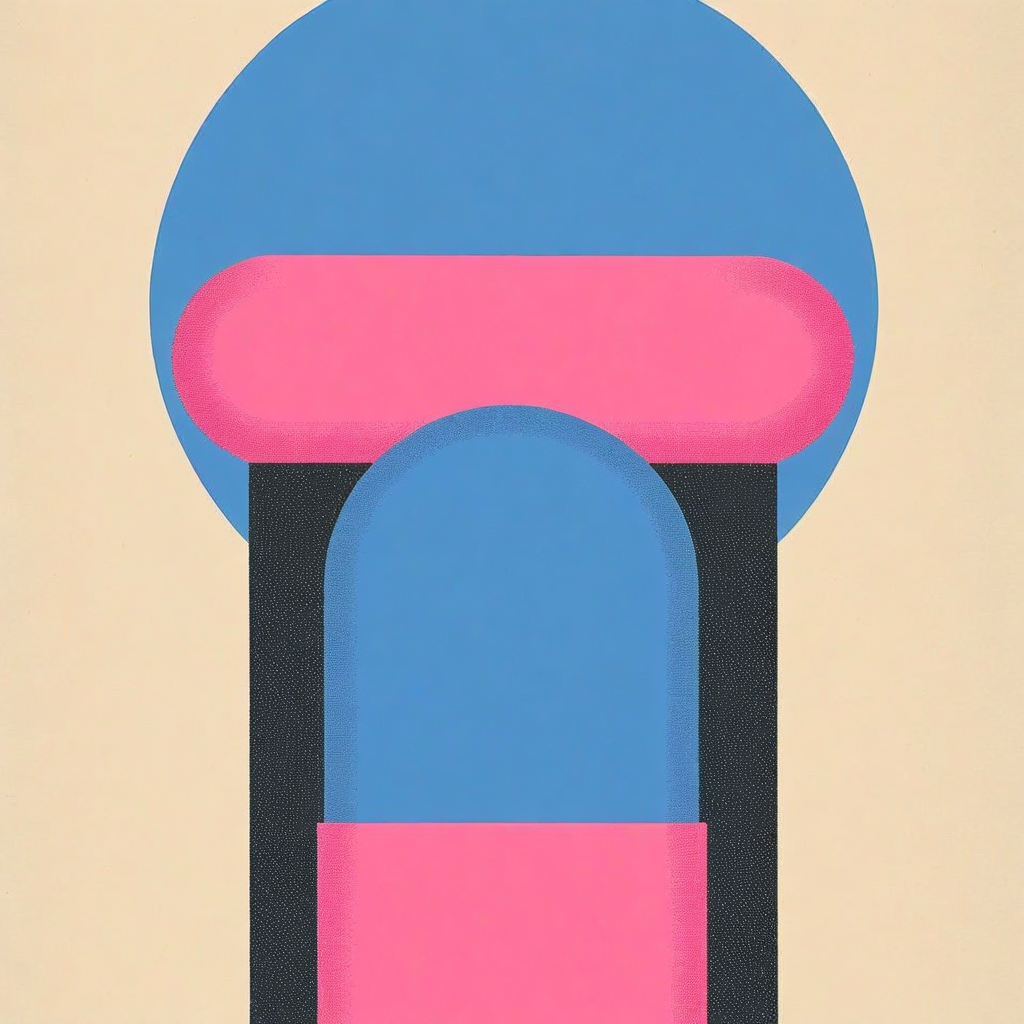
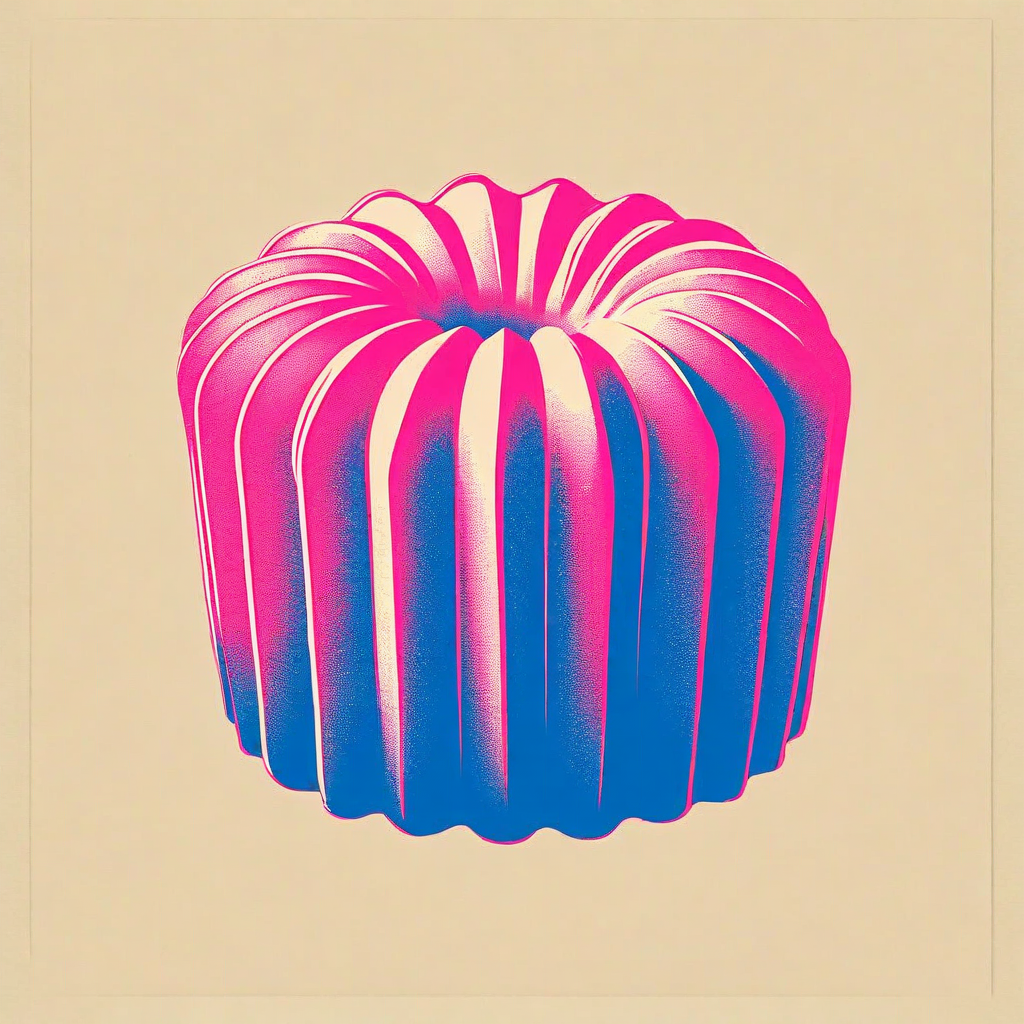
Half Cadence: fix canelé riso print, add per-unit cost breakdown
- Regenerate gen-riso/canele-riso.png as a clear fluted-canelé silhouette
  (the prior column+dome composition read badly); add canele-riso-bold alt
- cafe/canele-cost.md: ~$0.45/canelé ingredients from Fred Meyer + Amazon
  (rum is 37% of batch cost / WA spirits tax; eggs + vanilla next). Validates
  the plan's ~$0.44 ingredient assumption.
- Review hub picks up both

diff --git a/cafe/site/review/canele-cost.html b/cafe/site/review/canele-cost.html
@@ -1,0 +1,33 @@
+<!DOCTYPE html><html lang="en"><head><meta charset="utf-8"><meta name="viewport" content="width=device-width,initial-scale=1"><title>Canelé Cost per Unit</title><link href="https://fonts.googleapis.com/css2?family=Bricolage+Grotesque:wght@400;600;800&display=swap" rel="stylesheet"><style>
+:root{--blue:#0078bf;--pink:#ff48b0;--over:#cc2464;--paper:#fbfaf8;--ink:#435060;--gray:#88898a;--rule:#d2d4d6}
+*{box-sizing:border-box}
+body{font-family:'Bricolage Grotesque',system-ui,sans-serif;background:var(--paper);color:var(--ink);line-height:1.6;margin:0;font-size:16px}
+.inkbar{height:12px;background:linear-gradient(to right,var(--over) 0 20%,var(--pink) 20% 40%,var(--blue) 40% 60%,var(--over) 60% 80%,var(--pink) 80% 100%)}
+.wrap{max-width:820px;margin:0 auto;padding:28px 24px 80px}
+.back{font-family:ui-monospace,monospace;font-size:13px}
+h1{font-size:30px;font-weight:800;color:var(--blue);letter-spacing:-1px;margin:18px 0 4px}
+h2{font-size:13px;font-family:ui-monospace,monospace;letter-spacing:2px;text-transform:uppercase;color:var(--over);margin:30px 0 8px;border-bottom:1px solid var(--rule);padding-bottom:5px}
+h3{font-size:18px;font-weight:600;color:var(--blue);margin:18px 0 4px}
+h4{font-size:15px;font-weight:600;margin:14px 0 4px}
+a{color:var(--blue)} a:hover{color:var(--over)}
+code{font-family:ui-monospace,monospace;background:#eef0f2;padding:1px 5px;border-radius:3px;font-size:.9em}
+pre{background:#222a34;color:#c9ced5;padding:14px 16px;border-radius:6px;overflow:auto;font-size:13px}
+pre code{background:none;color:inherit;padding:0}
+table{border-collapse:collapse;width:100%;margin:12px 0;font-size:14.5px}
+th,td{border:1px solid var(--rule);padding:7px 10px;text-align:left;vertical-align:top}
+th{background:#eef0f2;font-weight:600}
+blockquote{border-left:3px solid var(--pink);margin:12px 0;padding:6px 16px;background:#fff;color:var(--ink)}
+hr{border:none;border-top:1px solid var(--rule);margin:26px 0}
+ul,ol{padding-left:22px}
+img{max-width:100%}
+.card{display:block;border:1px solid var(--rule);background:#fff;padding:16px 18px;margin:10px 0;text-decoration:none}
+.card:hover{border-color:var(--blue)}
+.card .t{font-weight:600;color:var(--blue);font-size:18px}
+.card .d{color:var(--ink);font-size:14px;margin-top:3px}
+.grid2{display:grid;grid-template-columns:1fr 1fr;gap:14px}
+.assets{display:grid;grid-template-columns:repeat(auto-fill,minmax(150px,1fr));gap:14px;margin-top:10px}
+.assets figure{margin:0;text-align:center}
+.assets img{border:1px solid var(--rule);background:#fbfaf8;width:100%}
+.assets figcaption{font-family:ui-monospace,monospace;font-size:11px;color:var(--gray);margin-top:4px}
+@media(max-width:620px){.grid2{grid-template-columns:1fr}}
+</style></head><body><div class="inkbar"></div><div class="wrap"><div class="back"><a href="index.html">&larr; review hub</a></div><h1>Canelé — Cost of Production per Unit</h1><p><strong>Batch:</strong> 24 canelés (~75g each, 1815g batter), the <a href="../r/big-batch-canele.html">Big-Batch Canelé</a>. <strong>Prices:</strong> Fred Meyer / Kroger Seattle (groceries) + Amazon (vanilla, fleur de sel), mid-2026, mid-range store-brand. Low-confidence prices flagged <code>~?</code>.</p><h2>1. Line items</h2><table><thead><tr><th>Ingredient</th><th>Qty used</th><th>Unit price</th><th>Line cost</th></tr></thead><tbody><tr><td>Whole milk</td><td>745 g</td><td>$0.00104/g</td><td>$0.78</td></tr><tr><td>Heavy cream</td><td>85 g</td><td>$0.0069/g</td><td>$0.59</td></tr><tr><td>Unsalted butter</td><td>100 g</td><td>$0.0101/g</td><td>$1.01</td></tr><tr><td>Vanilla beans (2 pods)</td><td>2 pods</td><td>$0.60/pod <code>~?</code></td><td>$1.20</td></tr><tr><td>Granulated sugar</td><td>375 g</td><td>$0.00165/g</td><td>$0.62</td></tr><tr><td>Fleur de sel</td><td>4 g</td><td>$0.11/g <code>~?</code></td><td>$0.44</td></tr><tr><td>Eggs (2 whole + 5 yolks = 7 eggs)</td><td>7 eggs</td><td>$0.25/egg <code>~?</code></td><td>$1.75</td></tr><tr><td>Aged rum</td><td>88 g (~93.6 ml)</td><td>$0.043/ml WA out-the-door <code>~?</code></td><td>$4.03</td></tr><tr><td>AP flour</td><td>185 g</td><td>$0.00132/g <code>~?</code></td><td>$0.24</td></tr><tr><td>Cornstarch</td><td>33 g</td><td>$0.0044/g <code>~?</code></td><td>$0.15</td></tr><tr><td><strong>Batch total</strong></td><td></td><td></td><td><strong>$10.80</strong></td></tr></tbody></table><p><strong>Notes on the math</strong></p><ul><li><strong>Rum:</strong> the price source is per-<em>milliliter</em>; the recipe specs 88 <em>grams</em>. At rum density ~0.94 g/ml that's ~93.6 ml → $4.03 at the WA out-the-door rate ($0.043/ml, which already includes WA's 20.5% spirits sales tax + $3.77/L liter tax). If you cost rum at its pre-tax base (~$0.030/ml), the line drops to <strong>$2.81</strong> and the batch to <strong>$9.58</strong>. WA's spirits tax alone moves the per-canelé number by ~$0.05.</li><li><strong>Eggs:</strong> all 7 eggs drawn from the carton are charged at full price ($1.75). The recipe leaves <strong>2 whites</strong> unused — if you reuse them (financiers, macarons), a mass-based credit is ~$0.32, netting eggs to ~$1.43 and the batch to ~$10.47. Not discounted above.</li><li>Fleur de sel at $0.11/g is the specialty tin; swapping plain sea salt ($0.0075/g) drops that line from $0.44 to ~$0.03 — see sensitivity.</li></ul><h2>2. Per-canelé (ingredients)</h2><ul><li><strong>Batch total: $10.80</strong> (rum at WA out-the-door)</li><li><strong>÷ 24 = ~$0.45 / canelé</strong></li><li>(Rum at pre-tax base → batch $9.58 → <strong>~$0.40 / canelé</strong>.)</li></ul><h2>3. Fully-loaded per-canelé</h2><p>Add nonstick baking spray at ~$0.02–0.05 per mold (≈1 g/use; cans are ~5 oz, not 170 g — negligible at batch scale):</p><ul><li><strong>~$0.47–0.48 / canelé</strong> (ingredients + spray, rum at WA rate)</li></ul><p><strong>NOT included</strong> (see <a href="plan.html"><code>plan.md</code></a> §6 for these): labor (loaded ~$25.56–27/hr at the $21.30 wage floor), oven gas/electric (high-heat 525°F runs are gas-heavy), copper mold wear + seasoning, packaging (kraft-window boxes, liners, riso cards), and ~10% waste. The plan rolls these into its $0.62 fully-loaded figure.</p><h2>4. Sensitivity — what dominates</h2><p>Two volatile lines drive ~half the batch cost:</p><ol><li><strong>Rum — $4.03 (37% of batch).</strong> The single biggest line, and the most tax-sensitive (WA spirits tax adds ~$1.20 to the line / ~$0.05 per canelé vs. base). Dropping to a floor-priced bottle (~$22 base) trims ~$0.40 off the batch (~$0.02/canelé). Small per-unit lever, largest absolute one.</li><li><strong>Eggs — $1.75 (16%).</strong> Volatile retail prices (floor ~$2.09 to promo spikes ~$4.00/dozen swing this ±$0.50/batch). Reusing the 2 whites recovers ~$0.32.</li><li><strong>Vanilla beans — $1.20 (11%).</strong> At $0.60/pod (medium confidence). <strong>Switching to 16g vanilla extract</strong> removes the bean line entirely; extract for this batch runs only ~$1–2 even at retail, so it's roughly a wash to a small saving — but flavor, not cost, should decide.</li></ol><p>A cheaper-salt swap (fleur de sel → plain sea salt) saves ~$0.41/batch (~$0.017/canelé) on its own.</p><p>Floor scenario (base-tax rum + reused whites + plain salt): batch ≈ <strong>$8.4</strong>, ~<strong>$0.35/canelé</strong>.</p><h2>5. Bottom line</h2><p><strong>~$0.45/canelé in ingredients from a Seattle grocery (~$0.47–0.48 fully-loaded for spray; ~$0.40 if rum is costed pre-tax).</strong> This lands right on the plan's assumed <strong>~$0.44 ingredient</strong> estimate — the recompute validates it — but sits well under the plan's <strong>~$0.62 fully-loaded</strong> figure, which is intentionally higher because it carries packaging + 10% waste that this ingredient-only sheet does not.</p><hr><p><em>Confidence: milk, cream, butter, sugar are high (corroborated figures); vanilla, salt, eggs, rum, flour, cornstarch, spray are medium (estimated from ranges — Kroger/Fred Meyer block scraping). All flagged <code>~?</code> in the table. The conclusion (~$0.45/canelé) is robust to these because the high-confidence dairy/sugar lines and the dominant rum line anchor most of the cost.</em></p></div></body></html>

diff --git a/cafe/site/review/index.html b/cafe/site/review/index.html
@@ -45,9 +45,10 @@ img{max-width:100%}
   <a class="card" href="plan.html"><div class="t">Business + UX Plan</div><div class="d">numbers, location, beverage program, brand, floor plan</div></a>
   <a class="card" href="farmers-market-playbook.html"><div class="t">Farmers-Market Playbook</div><div class="d">the validation phase + the WA TCS/cottage reality</div></a>
   <a class="card" href="water-activity-test-plan.html"><div class="t">Water-Activity Test Plan</div><div class="d">chasing the home-kitchen channel — email WSDA first</div></a>
+  <a class="card" href="canele-cost.html"><div class="t">Canelé Cost per Unit</div><div class="d">~$0.45/canelé from a Seattle grocery, line by line</div></a>
   <a class="card" href="brand__README.html"><div class="t">Brand Kit</div><div class="d">tokens, voice, the daily ritual</div></a>
 </div>
 
 <h2>Brand assets</h2>
-<div class="assets"><figure><img src="../../brand/png/box-label.png" alt="box-label.png"><figcaption>box-label</figcaption></figure><figure><img src="../../brand/png/cup-band.png" alt="cup-band.png"><figcaption>cup-band</figcaption></figure><figure><img src="../../brand/png/eat-today-card.png" alt="eat-today-card.png"><figcaption>eat-today-card</figcaption></figure><figure><img src="../../brand/png/flavor-chocolate.png" alt="flavor-chocolate.png"><figcaption>flavor-chocolate</figcaption></figure><figure><img src="../../brand/png/flavor-milk-tea.png" alt="flavor-milk-tea.png"><figcaption>flavor-milk-tea</figcaption></figure><figure><img src="../../brand/png/flavor-pour-over.png" alt="flavor-pour-over.png"><figcaption>flavor-pour-over</figcaption></figure><figure><img src="../../brand/png/flavor-vanilla.png" alt="flavor-vanilla.png"><figcaption>flavor-vanilla</figcaption></figure><figure><img src="../../brand/png/logo.png" alt="logo.png"><figcaption>logo</figcaption></figure><figure><img src="../../brand/png/loyalty-card.png" alt="loyalty-card.png"><figcaption>loyalty-card</figcaption></figure><figure><img src="../../brand/png/stamp.png" alt="stamp.png"><figcaption>stamp</figcaption></figure><figure><img src="../../brand/png/today-board.png" alt="today-board.png"><figcaption>today-board</figcaption></figure><figure><img src="../../brand/gen-riso/cadence-bars-riso.png" alt="cadence-bars-riso.png"><figcaption>gen-riso/cadence-bars-riso</figcaption></figure><figure><img src="../../brand/gen-riso/canele-riso.png" alt="canele-riso.png"><figcaption>gen-riso/canele-riso</figcaption></figure></div>
+<div class="assets"><figure><img src="../../brand/png/box-label.png" alt="box-label.png"><figcaption>box-label</figcaption></figure><figure><img src="../../brand/png/cup-band.png" alt="cup-band.png"><figcaption>cup-band</figcaption></figure><figure><img src="../../brand/png/eat-today-card.png" alt="eat-today-card.png"><figcaption>eat-today-card</figcaption></figure><figure><img src="../../brand/png/flavor-chocolate.png" alt="flavor-chocolate.png"><figcaption>flavor-chocolate</figcaption></figure><figure><img src="../../brand/png/flavor-milk-tea.png" alt="flavor-milk-tea.png"><figcaption>flavor-milk-tea</figcaption></figure><figure><img src="../../brand/png/flavor-pour-over.png" alt="flavor-pour-over.png"><figcaption>flavor-pour-over</figcaption></figure><figure><img src="../../brand/png/flavor-vanilla.png" alt="flavor-vanilla.png"><figcaption>flavor-vanilla</figcaption></figure><figure><img src="../../brand/png/logo.png" alt="logo.png"><figcaption>logo</figcaption></figure><figure><img src="../../brand/png/loyalty-card.png" alt="loyalty-card.png"><figcaption>loyalty-card</figcaption></figure><figure><img src="../../brand/png/stamp.png" alt="stamp.png"><figcaption>stamp</figcaption></figure><figure><img src="../../brand/png/today-board.png" alt="today-board.png"><figcaption>today-board</figcaption></figure><figure><img src="../../brand/gen-riso/cadence-bars-riso.png" alt="cadence-bars-riso.png"><figcaption>gen-riso/cadence-bars-riso</figcaption></figure><figure><img src="../../brand/gen-riso/canele-riso-bold.png" alt="canele-riso-bold.png"><figcaption>gen-riso/canele-riso-bold</figcaption></figure><figure><img src="../../brand/gen-riso/canele-riso.png" alt="canele-riso.png"><figcaption>gen-riso/canele-riso</figcaption></figure></div>
 </div></body></html>

diff --git a/cafe/site/build-review.js b/cafe/site/build-review.js
@@ -94,6 +94,7 @@ const docs = [
   { src: "plan.md", title: "Business + UX Plan" },
   { src: "farmers-market-playbook.md", title: "Farmers-Market Playbook" },
   { src: "water-activity-test-plan.md", title: "Water-Activity Test Plan" },
+  { src: "canele-cost.md", title: "Canelé Cost per Unit" },
   { src: path.join("brand","README.md"), title: "Brand Kit" },
 ];
 for(const d of docs){
@@ -129,6 +130,7 @@ const hub = head("Half Cadence — review hub") +
   <a class="card" href="plan.html"><div class="t">Business + UX Plan</div><div class="d">numbers, location, beverage program, brand, floor plan</div></a>
   <a class="card" href="farmers-market-playbook.html"><div class="t">Farmers-Market Playbook</div><div class="d">the validation phase + the WA TCS/cottage reality</div></a>
   <a class="card" href="water-activity-test-plan.html"><div class="t">Water-Activity Test Plan</div><div class="d">chasing the home-kitchen channel — email WSDA first</div></a>
+  <a class="card" href="canele-cost.html"><div class="t">Canelé Cost per Unit</div><div class="d">~$0.45/canelé from a Seattle grocery, line by line</div></a>
   <a class="card" href="brand__README.html"><div class="t">Brand Kit</div><div class="d">tokens, voice, the daily ritual</div></a>
 </div>
 

diff --git a/cafe/site/review/brand__README.html b/cafe/site/review/brand__README.html
@@ -30,5 +30,5 @@ img{max-width:100%}
 .assets img{border:1px solid var(--rule);background:#fbfaf8;width:100%}
 .assets figcaption{font-family:ui-monospace,monospace;font-size:11px;color:var(--gray);margin-top:4px}
 @media(max-width:620px){.grid2{grid-template-columns:1fr}}
-</style></head><body><div class="inkbar"></div><div class="wrap"><div class="back"><a href="index.html">&larr; review hub</a></div><h1>Half Cadence — brand kit</h1><p>Working brand assets for the café concept. Everything extends the recipe site's existing two-ink Risograph system — no new colors, no new fonts. See <a href="../plan.html"><code>../plan.md</code></a> for the full business + UX plan and <a href="../site/"><code>../site/</code></a> for the website.</p><p><strong>The name.</strong> A <em>half cadence</em> in music is a phrase that stops on the dominant chord — unresolved, hanging, pulling you toward the next. That's the daily-drop / sell-out model stated as a name: <em>we never resolve; come back tomorrow.</em> It also ties the café to the owner's existing <code>halfcadence</code> recipe site and handle, so it's one brand for free.</p><h2>Tokens (do not deviate)</h2><table><thead><tr><th>Token</th><th>Hex</th><th>Use</th></tr></thead><tbody><tr><td>Blue</td><td><code>#0078bf</code></td><td>Primary ink. Wordmark words, body, all small type.</td></tr><tr><td>Fluorescent Pink</td><td><code>#ff48b0</code></td><td>Accent ink. The <code>/</code> caesura, fills, the sold-out strike.</td></tr><tr><td>Overprint</td><td><code>#cc2464</code></td><td>Blue × pink multiply. Earned by overlap — never a flat fill except for section labels / the honesty line.</td></tr><tr><td>Cream</td><td><code>#fbfaf8</code></td><td>The only ground.</td></tr><tr><td>Midnight</td><td><code>#435060</code></td><td>De-emphasized type (dates, sublines).</td></tr><tr><td>Light gray</td><td><code>#88898a</code></td><td>Empty dots, sold-out name.</td></tr></tbody></table><p><strong>Type:</strong> Bricolage Grotesque (600) for the wordmark and headlines; monospace for everything else — prices, times, flavor names, wayfinding. (Matches the recipe site exactly.)</p><p><strong>Voice:</strong> imperative, numeric, honest, no adjectives, no exclamation points. <code>Rest 48 hours. Bake at 525. Eat today.</code></p><p><strong>The wordmark mechanic:</strong> "half / cadence" — words in blue, the <strong><code>/</code> caesura in pink</strong>. The slash performs the two-ink rule <em>and</em> the unresolved-phrase idea in one mark. The canelé glyph (pink rectangle body + blue circle dome) sits as a colophon beside it.</p><h2>Assets</h2><table><thead><tr><th>File</th><th>What it is</th></tr></thead><tbody><tr><td><code>logo.svg</code></td><td>Primary horizontal wordmark — canelé-glyph colophon + "half / cadence" + monospace subline.</td></tr><tr><td><code>stamp.svg</code></td><td>Circular mark for the IG avatar, stickers, and the rubber stamp — glyph + stacked wordmark + <code>EAT TODAY</code>.</td></tr><tr><td><code>today-board.svg</code></td><td><strong>The hero artifact.</strong> The daily flavor board: fixed all-star band + rotating roster with a remaining-count dot grid and a pink sold-out strike. Simultaneously the in-store board, the menu, and the day's Instagram post. Re-typeset every morning.</td></tr><tr><td><code>cup-band.svg</code></td><td>Wrap/sleeve band for cups — repeating canelé glyph + <code>POUR OVER · ~4 MIN · WORTH IT</code>.</td></tr><tr><td><code>flavor-vanilla.svg</code></td><td>All-star glyph — the master mark: pink rectangle body + blue circle dome.</td></tr><tr><td><code>flavor-chocolate.svg</code></td><td>All-star glyph — the inverse: blue body + pink dome.</td></tr><tr><td><code>flavor-milk-tea.svg</code></td><td>All-star glyph — pink body + blue base band (the milk layer).</td></tr><tr><td><code>flavor-pour-over.svg</code></td><td>All-star glyph — blue dripper triangle + pink drip.</td></tr><tr><td><code>box-label.svg</code></td><td>Gift-box label — wordmark + "box of __ / flavors" fill-in + the "eat today" honesty line.</td></tr><tr><td><code>eat-today-card.svg</code></td><td>The card that tucks into every box: <em>eat today, don't refrigerate, the shell goes soft.</em></td></tr><tr><td><code>loyalty-card.svg</code></td><td>Punch card — ten blue canelé-glyph outlines; each visit gets a pink dome stamp; the tenth is free. The stamp performs the two-ink rule every visit.</td></tr><tr><td><code>gen-riso/canele-riso.png</code></td><td>Nova Canvas riso print of the canelé form (flat pink column + blue dome, halftone grain).</td></tr><tr><td><code>gen-riso/cadence-bars-riso.png</code></td><td>Nova Canvas abstract riso print — blue bars + pink caesura slash (the "cadence" motif). A poster/wall option.</td></tr></tbody></table><p>The flavor glyphs are lifted directly from the recipe site's existing illustrations (<code>canele.svg</code>, <code>chocolate-canele.svg</code>, <code>hong-kong-milk-tea-canele.svg</code>, <code>iced-pour-over.svg</code>), so the café and the recipes read as one hand. New rotating flavors follow the site's illustration rules: max 2 primary shapes, blue/pink only, <code>viewBox="0 0 200 200"</code>, multiply on the overlapping shape.</p><h2>Rendering</h2><p>These are riso-spec SVGs. To preview as PNG:</p><pre><code>convert -density 150 -background "#fbfaf8" today-board.svg today-board.png
+</style></head><body><div class="inkbar"></div><div class="wrap"><div class="back"><a href="index.html">&larr; review hub</a></div><h1>Half Cadence — brand kit</h1><p>Working brand assets for the café concept. Everything extends the recipe site's existing two-ink Risograph system — no new colors, no new fonts. See <a href="../plan.html"><code>../plan.md</code></a> for the full business + UX plan and <a href="../site/"><code>../site/</code></a> for the website.</p><p><strong>The name.</strong> A <em>half cadence</em> in music is a phrase that stops on the dominant chord — unresolved, hanging, pulling you toward the next. That's the daily-drop / sell-out model stated as a name: <em>we never resolve; come back tomorrow.</em> It also ties the café to the owner's existing <code>halfcadence</code> recipe site and handle, so it's one brand for free.</p><h2>Tokens (do not deviate)</h2><table><thead><tr><th>Token</th><th>Hex</th><th>Use</th></tr></thead><tbody><tr><td>Blue</td><td><code>#0078bf</code></td><td>Primary ink. Wordmark words, body, all small type.</td></tr><tr><td>Fluorescent Pink</td><td><code>#ff48b0</code></td><td>Accent ink. The <code>/</code> caesura, fills, the sold-out strike.</td></tr><tr><td>Overprint</td><td><code>#cc2464</code></td><td>Blue × pink multiply. Earned by overlap — never a flat fill except for section labels / the honesty line.</td></tr><tr><td>Cream</td><td><code>#fbfaf8</code></td><td>The only ground.</td></tr><tr><td>Midnight</td><td><code>#435060</code></td><td>De-emphasized type (dates, sublines).</td></tr><tr><td>Light gray</td><td><code>#88898a</code></td><td>Empty dots, sold-out name.</td></tr></tbody></table><p><strong>Type:</strong> Bricolage Grotesque (600) for the wordmark and headlines; monospace for everything else — prices, times, flavor names, wayfinding. (Matches the recipe site exactly.)</p><p><strong>Voice:</strong> imperative, numeric, honest, no adjectives, no exclamation points. <code>Rest 48 hours. Bake at 525. Eat today.</code></p><p><strong>The wordmark mechanic:</strong> "half / cadence" — words in blue, the <strong><code>/</code> caesura in pink</strong>. The slash performs the two-ink rule <em>and</em> the unresolved-phrase idea in one mark. The canelé glyph (pink rectangle body + blue circle dome) sits as a colophon beside it.</p><h2>Assets</h2><table><thead><tr><th>File</th><th>What it is</th></tr></thead><tbody><tr><td><code>logo.svg</code></td><td>Primary horizontal wordmark — canelé-glyph colophon + "half / cadence" + monospace subline.</td></tr><tr><td><code>stamp.svg</code></td><td>Circular mark for the IG avatar, stickers, and the rubber stamp — glyph + stacked wordmark + <code>EAT TODAY</code>.</td></tr><tr><td><code>today-board.svg</code></td><td><strong>The hero artifact.</strong> The daily flavor board: fixed all-star band + rotating roster with a remaining-count dot grid and a pink sold-out strike. Simultaneously the in-store board, the menu, and the day's Instagram post. Re-typeset every morning.</td></tr><tr><td><code>cup-band.svg</code></td><td>Wrap/sleeve band for cups — repeating canelé glyph + <code>POUR OVER · ~4 MIN · WORTH IT</code>.</td></tr><tr><td><code>flavor-vanilla.svg</code></td><td>All-star glyph — the master mark: pink rectangle body + blue circle dome.</td></tr><tr><td><code>flavor-chocolate.svg</code></td><td>All-star glyph — the inverse: blue body + pink dome.</td></tr><tr><td><code>flavor-milk-tea.svg</code></td><td>All-star glyph — pink body + blue base band (the milk layer).</td></tr><tr><td><code>flavor-pour-over.svg</code></td><td>All-star glyph — blue dripper triangle + pink drip.</td></tr><tr><td><code>box-label.svg</code></td><td>Gift-box label — wordmark + "box of __ / flavors" fill-in + the "eat today" honesty line.</td></tr><tr><td><code>eat-today-card.svg</code></td><td>The card that tucks into every box: <em>eat today, don't refrigerate, the shell goes soft.</em></td></tr><tr><td><code>loyalty-card.svg</code></td><td>Punch card — ten blue canelé-glyph outlines; each visit gets a pink dome stamp; the tenth is free. The stamp performs the two-ink rule every visit.</td></tr><tr><td><code>gen-riso/canele-riso.png</code></td><td>Nova Canvas riso print — the fluted canelé silhouette on cream, pink/blue two-ink with halftone grain. The warm, classic version.</td></tr><tr><td><code>gen-riso/canele-riso-bold.png</code></td><td>Same fluted canelé, pink-ground bold poster variant (blue overprint).</td></tr><tr><td><code>gen-riso/cadence-bars-riso.png</code></td><td>Nova Canvas abstract riso print — blue bars + pink caesura slash (the "cadence" motif). A poster/wall option.</td></tr></tbody></table><p>The flavor glyphs are lifted directly from the recipe site's existing illustrations (<code>canele.svg</code>, <code>chocolate-canele.svg</code>, <code>hong-kong-milk-tea-canele.svg</code>, <code>iced-pour-over.svg</code>), so the café and the recipes read as one hand. New rotating flavors follow the site's illustration rules: max 2 primary shapes, blue/pink only, <code>viewBox="0 0 200 200"</code>, multiply on the overlapping shape.</p><h2>Rendering</h2><p>These are riso-spec SVGs. To preview as PNG:</p><pre><code>convert -density 150 -background "#fbfaf8" today-board.svg today-board.png
 </code></pre><p>For real signage/packaging, lock <code>#0078bf</code> and <code>#ff48b0</code> to Pantone/spot equivalents and proof on actual cream stock — Fluorescent Pink drifts to muddy magenta in 4-color digital and backlit signage. Never set prices in pink alone (fails contrast on cream); use blue or overprint-dark.</p><h2>The daily ritual</h2><ol><li>Set today's counts → re-typeset <code>today-board.svg</code> (swap names, reset dot grids), or edit the <code>TODAY</code> object in <a href="../site/today.html"><code>../site/today.html</code></a> — same data, two surfaces.</li><li>Print the board on cream at A2. Hang it.</li><li>Photograph it → that's the day's social post. Caption in the recipe voice.</li><li>As flavors sell out, knock down dots; at zero, strike the name in pink.</li><li>The printed board, the website <code>/today</code> page, and the counts must never disagree.</li></ol></div></body></html>

diff --git a/cafe/canele-cost.md b/cafe/canele-cost.md
@@ -1,0 +1,58 @@
+# Canelé — Cost of Production per Unit
+
+**Batch:** 24 canelés (~75g each, 1815g batter), the [Big-Batch Canelé](../r/big-batch-canele.md). **Prices:** Fred Meyer / Kroger Seattle (groceries) + Amazon (vanilla, fleur de sel), mid-2026, mid-range store-brand. Low-confidence prices flagged `~?`.
+
+## 1. Line items
+
+| Ingredient | Qty used | Unit price | Line cost |
+|---|---|---|---|
+| Whole milk | 745 g | $0.00104/g | $0.78 |
+| Heavy cream | 85 g | $0.0069/g | $0.59 |
+| Unsalted butter | 100 g | $0.0101/g | $1.01 |
+| Vanilla beans (2 pods) | 2 pods | $0.60/pod `~?` | $1.20 |
+| Granulated sugar | 375 g | $0.00165/g | $0.62 |
+| Fleur de sel | 4 g | $0.11/g `~?` | $0.44 |
+| Eggs (2 whole + 5 yolks = 7 eggs) | 7 eggs | $0.25/egg `~?` | $1.75 |
+| Aged rum | 88 g (~93.6 ml) | $0.043/ml WA out-the-door `~?` | $4.03 |
+| AP flour | 185 g | $0.00132/g `~?` | $0.24 |
+| Cornstarch | 33 g | $0.0044/g `~?` | $0.15 |
+| **Batch total** | | | **$10.80** |
+
+**Notes on the math**
+- **Rum:** the price source is per-*milliliter*; the recipe specs 88 *grams*. At rum density ~0.94 g/ml that's ~93.6 ml → $4.03 at the WA out-the-door rate ($0.043/ml, which already includes WA's 20.5% spirits sales tax + $3.77/L liter tax). If you cost rum at its pre-tax base (~$0.030/ml), the line drops to **$2.81** and the batch to **$9.58**. WA's spirits tax alone moves the per-canelé number by ~$0.05.
+- **Eggs:** all 7 eggs drawn from the carton are charged at full price ($1.75). The recipe leaves **2 whites** unused — if you reuse them (financiers, macarons), a mass-based credit is ~$0.32, netting eggs to ~$1.43 and the batch to ~$10.47. Not discounted above.
+- Fleur de sel at $0.11/g is the specialty tin; swapping plain sea salt ($0.0075/g) drops that line from $0.44 to ~$0.03 — see sensitivity.
+
+## 2. Per-canelé (ingredients)
+
+- **Batch total: $10.80** (rum at WA out-the-door)
+- **÷ 24 = ~$0.45 / canelé**
+- (Rum at pre-tax base → batch $9.58 → **~$0.40 / canelé**.)
+
+## 3. Fully-loaded per-canelé
+
+Add nonstick baking spray at ~$0.02–0.05 per mold (≈1 g/use; cans are ~5 oz, not 170 g — negligible at batch scale):
+
+- **~$0.47–0.48 / canelé** (ingredients + spray, rum at WA rate)
+
+**NOT included** (see [`plan.md`](./plan.md) §6 for these): labor (loaded ~$25.56–27/hr at the $21.30 wage floor), oven gas/electric (high-heat 525°F runs are gas-heavy), copper mold wear + seasoning, packaging (kraft-window boxes, liners, riso cards), and ~10% waste. The plan rolls these into its $0.62 fully-loaded figure.
+
+## 4. Sensitivity — what dominates
+
+Two volatile lines drive ~half the batch cost:
+
+1. **Rum — $4.03 (37% of batch).** The single biggest line, and the most tax-sensitive (WA spirits tax adds ~$1.20 to the line / ~$0.05 per canelé vs. base). Dropping to a floor-priced bottle (~$22 base) trims ~$0.40 off the batch (~$0.02/canelé). Small per-unit lever, largest absolute one.
+2. **Eggs — $1.75 (16%).** Volatile retail prices (floor ~$2.09 to promo spikes ~$4.00/dozen swing this ±$0.50/batch). Reusing the 2 whites recovers ~$0.32.
+3. **Vanilla beans — $1.20 (11%).** At $0.60/pod (medium confidence). **Switching to 16g vanilla extract** removes the bean line entirely; extract for this batch runs only ~$1–2 even at retail, so it's roughly a wash to a small saving — but flavor, not cost, should decide.
+
+A cheaper-salt swap (fleur de sel → plain sea salt) saves ~$0.41/batch (~$0.017/canelé) on its own.
+
+Floor scenario (base-tax rum + reused whites + plain salt): batch ≈ **$8.4**, ~**$0.35/canelé**.
+
+## 5. Bottom line
+
+**~$0.45/canelé in ingredients from a Seattle grocery (~$0.47–0.48 fully-loaded for spray; ~$0.40 if rum is costed pre-tax).** This lands right on the plan's assumed **~$0.44 ingredient** estimate — the recompute validates it — but sits well under the plan's **~$0.62 fully-loaded** figure, which is intentionally higher because it carries packaging + 10% waste that this ingredient-only sheet does not.
+
+---
+
+*Confidence: milk, cream, butter, sugar are high (corroborated figures); vanilla, salt, eggs, rum, flour, cornstarch, spray are medium (estimated from ranges — Kroger/Fred Meyer block scraping). All flagged `~?` in the table. The conclusion (~$0.45/canelé) is robust to these because the high-confidence dairy/sugar lines and the dominant rum line anchor most of the cost.*

diff --git a/cafe/brand/README.md b/cafe/brand/README.md
@@ -36,7 +36,8 @@ Working brand assets for the café concept. Everything extends the recipe site's
 | `box-label.svg` | Gift-box label — wordmark + "box of __ / flavors" fill-in + the "eat today" honesty line. |
 | `eat-today-card.svg` | The card that tucks into every box: *eat today, don't refrigerate, the shell goes soft.* |
 | `loyalty-card.svg` | Punch card — ten blue canelé-glyph outlines; each visit gets a pink dome stamp; the tenth is free. The stamp performs the two-ink rule every visit. |
-| `gen-riso/canele-riso.png` | Nova Canvas riso print of the canelé form (flat pink column + blue dome, halftone grain). |
+| `gen-riso/canele-riso.png` | Nova Canvas riso print — the fluted canelé silhouette on cream, pink/blue two-ink with halftone grain. The warm, classic version. |
+| `gen-riso/canele-riso-bold.png` | Same fluted canelé, pink-ground bold poster variant (blue overprint). |
 | `gen-riso/cadence-bars-riso.png` | Nova Canvas abstract riso print — blue bars + pink caesura slash (the "cadence" motif). A poster/wall option. |
 
 The flavor glyphs are lifted directly from the recipe site's existing illustrations (`canele.svg`, `chocolate-canele.svg`, `hong-kong-milk-tea-canele.svg`, `iced-pour-over.svg`), so the café and the recipes read as one hand. New rotating flavors follow the site's illustration rules: max 2 primary shapes, blue/pink only, `viewBox="0 0 200 200"`, multiply on the overlapping shape.